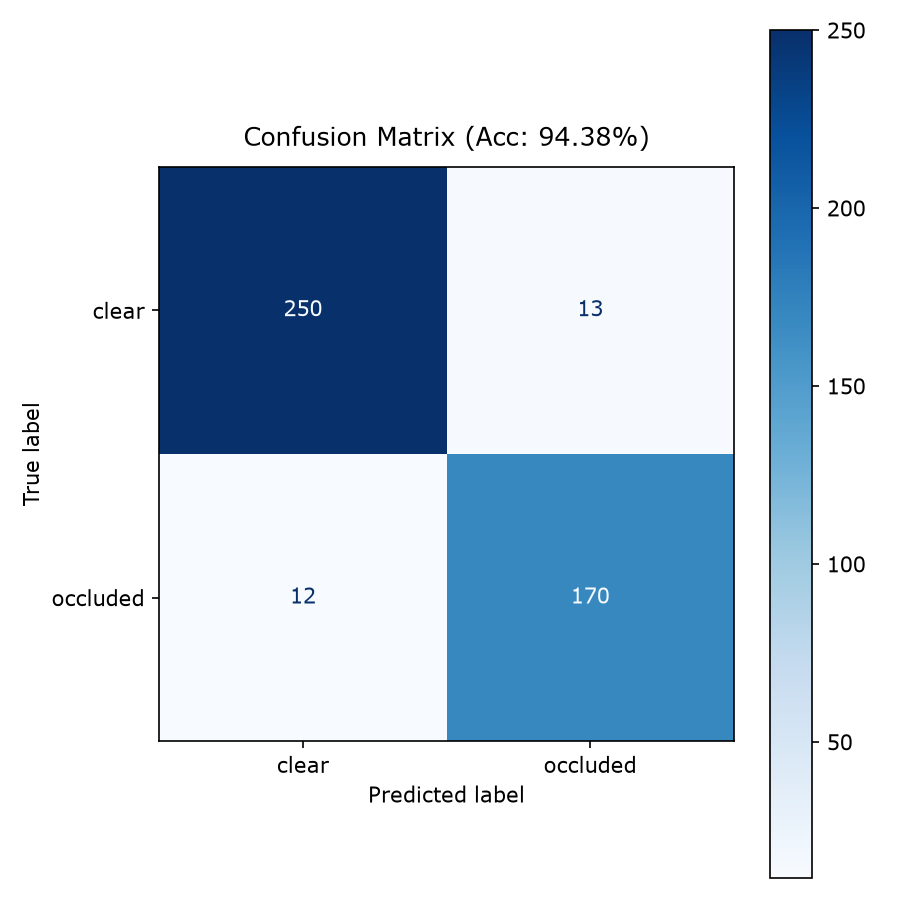
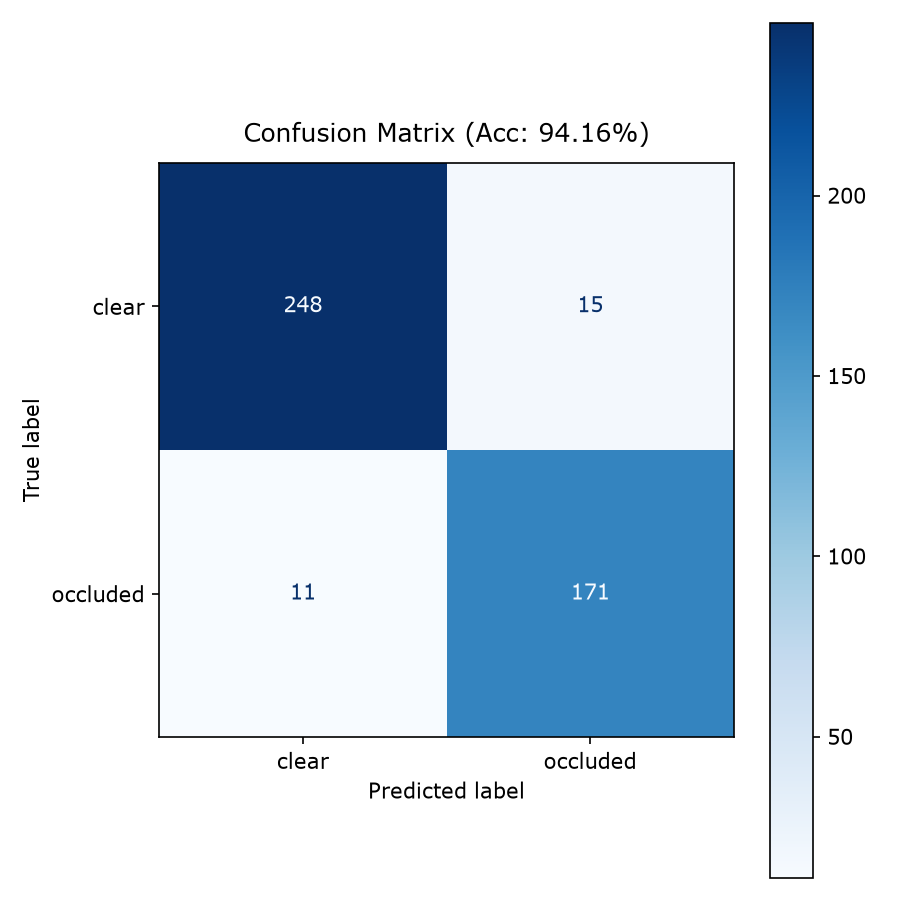
TTA
2-Pass Flip

diff --git a/test.py b/test.py
@@ -101,7 +101,14 @@ def save_contact_sheets_paged(items: list[dict], output_dir: Path, prefix: str =
         plt.close(fig)
 
 
-def evaluate_dataset_dir(cfg: dict, checkpoint_path: Path, dataset_dir: Path, output_dir: Path, batch_size: int = 64) -> None:
+def evaluate_dataset_dir(
+    cfg: dict,
+    checkpoint_path: Path,
+    dataset_dir: Path,
+    output_dir: Path,
+    batch_size: int = 64,
+    use_tta: bool = False,
+) -> None:
     if not dataset_dir.exists():
         raise FileNotFoundError(f"Dataset directory not found: {dataset_dir}")
 
@@ -109,6 +116,7 @@ def evaluate_dataset_dir(cfg: dict, checkpoint_path: Path, dataset_dir: Path, ou
     print(f"Using device: {device}")
     print(f"Evaluating dataset from: {dataset_dir.resolve()}")
     print(f"Loading checkpoint: {checkpoint_path.resolve()}")
+    print(f"Test-Time Augmentation (TTA): {'ENABLED (2-pass Horizontal Flip)' if use_tta else 'DISABLED'}")
 
     class_names = list(cfg["data"]["class_names"])
     _, eval_transform = build_transforms(cfg)
@@ -139,7 +147,14 @@ def evaluate_dataset_dir(cfg: dict, checkpoint_path: Path, dataset_dir: Path, ou
         for batch_idx, (images, targets) in enumerate(test_loader):
             images = images.to(device, non_blocking=True)
             targets_device = targets.to(device, non_blocking=True)
-            logits = model(images)
+            
+            if use_tta:
+                images_flipped = torch.flip(images, dims=[3])
+                logits_orig = model(images)
+                logits_flip = model(images_flipped)
+                logits = (logits_orig + logits_flip) * 0.5
+            else:
+                logits = model(images)
 
             if num_classes == 1:
                 logits_1d = logits.view(-1)
@@ -195,8 +210,9 @@ def evaluate_dataset_dir(cfg: dict, checkpoint_path: Path, dataset_dir: Path, ou
     macro_f1 = f1_score(y_true, y_pred, average="macro", zero_division=0)
 
     print("\n" + "=" * 65)
-    print("                    EVALUATION REPORT")
+    print(f"                    EVALUATION REPORT {'(TTA: 2-PASS FLIP)' if use_tta else ''}")
     print("=" * 65)
+    print(f"TTA Enabled:         {use_tta}")
     print(f"Total Samples:       {len(y_true)}")
     print(f"Cross-Entropy Loss:  {avg_loss:.4f}")
     print(f"Overall Accuracy:    {acc * 100:.2f}%")
@@ -279,16 +295,30 @@ def main():
     )
     parser.add_argument("--unlabeled-output-dir", default="outputs/unlabeled_test")
     parser.add_argument("--batch-size", type=int, default=64)
+    parser.add_argument(
+        "--tta",
+        dest="tta",
+        action="store_true",
+        default=None,
+        help="Enable 2-pass horizontal flip Test-Time Augmentation (TTA)",
+    )
+    parser.add_argument(
+        "--no-tta",
+        dest="tta",
+        action="store_false",
+        help="Disable Test-Time Augmentation (TTA)",
+    )
     args = parser.parse_args()
 
     cfg = load_config(args.config)
+    use_tta = args.tta if args.tta is not None else bool(cfg.get("evaluation", {}).get("use_tta", False))
     checkpoint_path = Path(args.checkpoint or cfg["checkpoint"]["best_path"])
 
     target_dataset_dir = args.dataset_dir or args.pos_dataset_dir
     if target_dataset_dir:
         target_path = Path(target_dataset_dir)
         out_dir = Path(args.output_dir or (target_path / "eval_results"))
-        evaluate_dataset_dir(cfg, checkpoint_path, target_path, out_dir, batch_size=args.batch_size)
+        evaluate_dataset_dir(cfg, checkpoint_path, target_path, out_dir, batch_size=args.batch_size, use_tta=use_tta)
         return
 
     # Default flow using config data.root
@@ -308,7 +338,7 @@ def main():
             raise FileNotFoundError(f"Dataset directory not found: {split_dir}")
 
     out_dir = Path(args.output_dir or f"outputs/eval_{split_name}")
-    evaluate_dataset_dir(cfg, checkpoint_path, split_dir, out_dir, batch_size=args.batch_size)
+    evaluate_dataset_dir(cfg, checkpoint_path, split_dir, out_dir, batch_size=args.batch_size, use_tta=use_tta)
 
 
 if __name__ == "__main__":

diff --git a/classify_folder.py b/classify_folder.py
@@ -91,6 +91,7 @@ def classify_and_organize(
     action: str = "copy",
     make_contact_sheets: bool = True,
     batch_size: int | None = None,
+    use_tta: bool = False,
 ) -> None:
     if not input_dir.exists():
         raise FileNotFoundError(f"Input directory not found: {input_dir}")
@@ -100,6 +101,7 @@ def classify_and_organize(
     cfg = load_config(config_path)
     device = torch.device("cuda" if torch.cuda.is_available() else "cpu")
     print(f"Device: {device}")
+    print(f"Test-Time Augmentation (TTA): {'ENABLED (2-pass Horizontal Flip)' if use_tta else 'DISABLED'}")
 
     class_names = list(cfg["data"]["class_names"])
     bs = batch_size or int(cfg["data"].get("batch_size", 64))
@@ -160,7 +162,13 @@ def classify_and_organize(
                 continue
 
             inputs = torch.stack(batch_tensors).to(device)
-            logits = model(inputs)
+            if use_tta:
+                inputs_flipped = torch.flip(inputs, dims=[3])
+                logits_orig = model(inputs)
+                logits_flip = model(inputs_flipped)
+                logits = (logits_orig + logits_flip) * 0.5
+            else:
+                logits = model(inputs)
             num_classes = int(cfg["model"].get("num_classes", 1))
             if num_classes == 1:
                 logits_1d = logits.view(-1)
@@ -284,7 +292,23 @@ def main():
         default=64,
         help="Batch size for inference",
     )
+    parser.add_argument(
+        "--tta",
+        dest="tta",
+        action="store_true",
+        default=None,
+        help="Enable 2-pass horizontal flip Test-Time Augmentation (TTA)",
+    )
+    parser.add_argument(
+        "--no-tta",
+        dest="tta",
+        action="store_false",
+        help="Disable Test-Time Augmentation (TTA)",
+    )
     args = parser.parse_args()
+
+    cfg = load_config(args.config)
+    use_tta = args.tta if args.tta is not None else bool(cfg.get("evaluation", {}).get("use_tta", False))
 
     classify_and_organize(
         input_dir=Path(args.input_dir),
@@ -295,6 +319,7 @@ def main():
         action=args.action,
         make_contact_sheets=not args.no_sheets,
         batch_size=args.batch_size,
+        use_tta=use_tta,
     )
 
 
